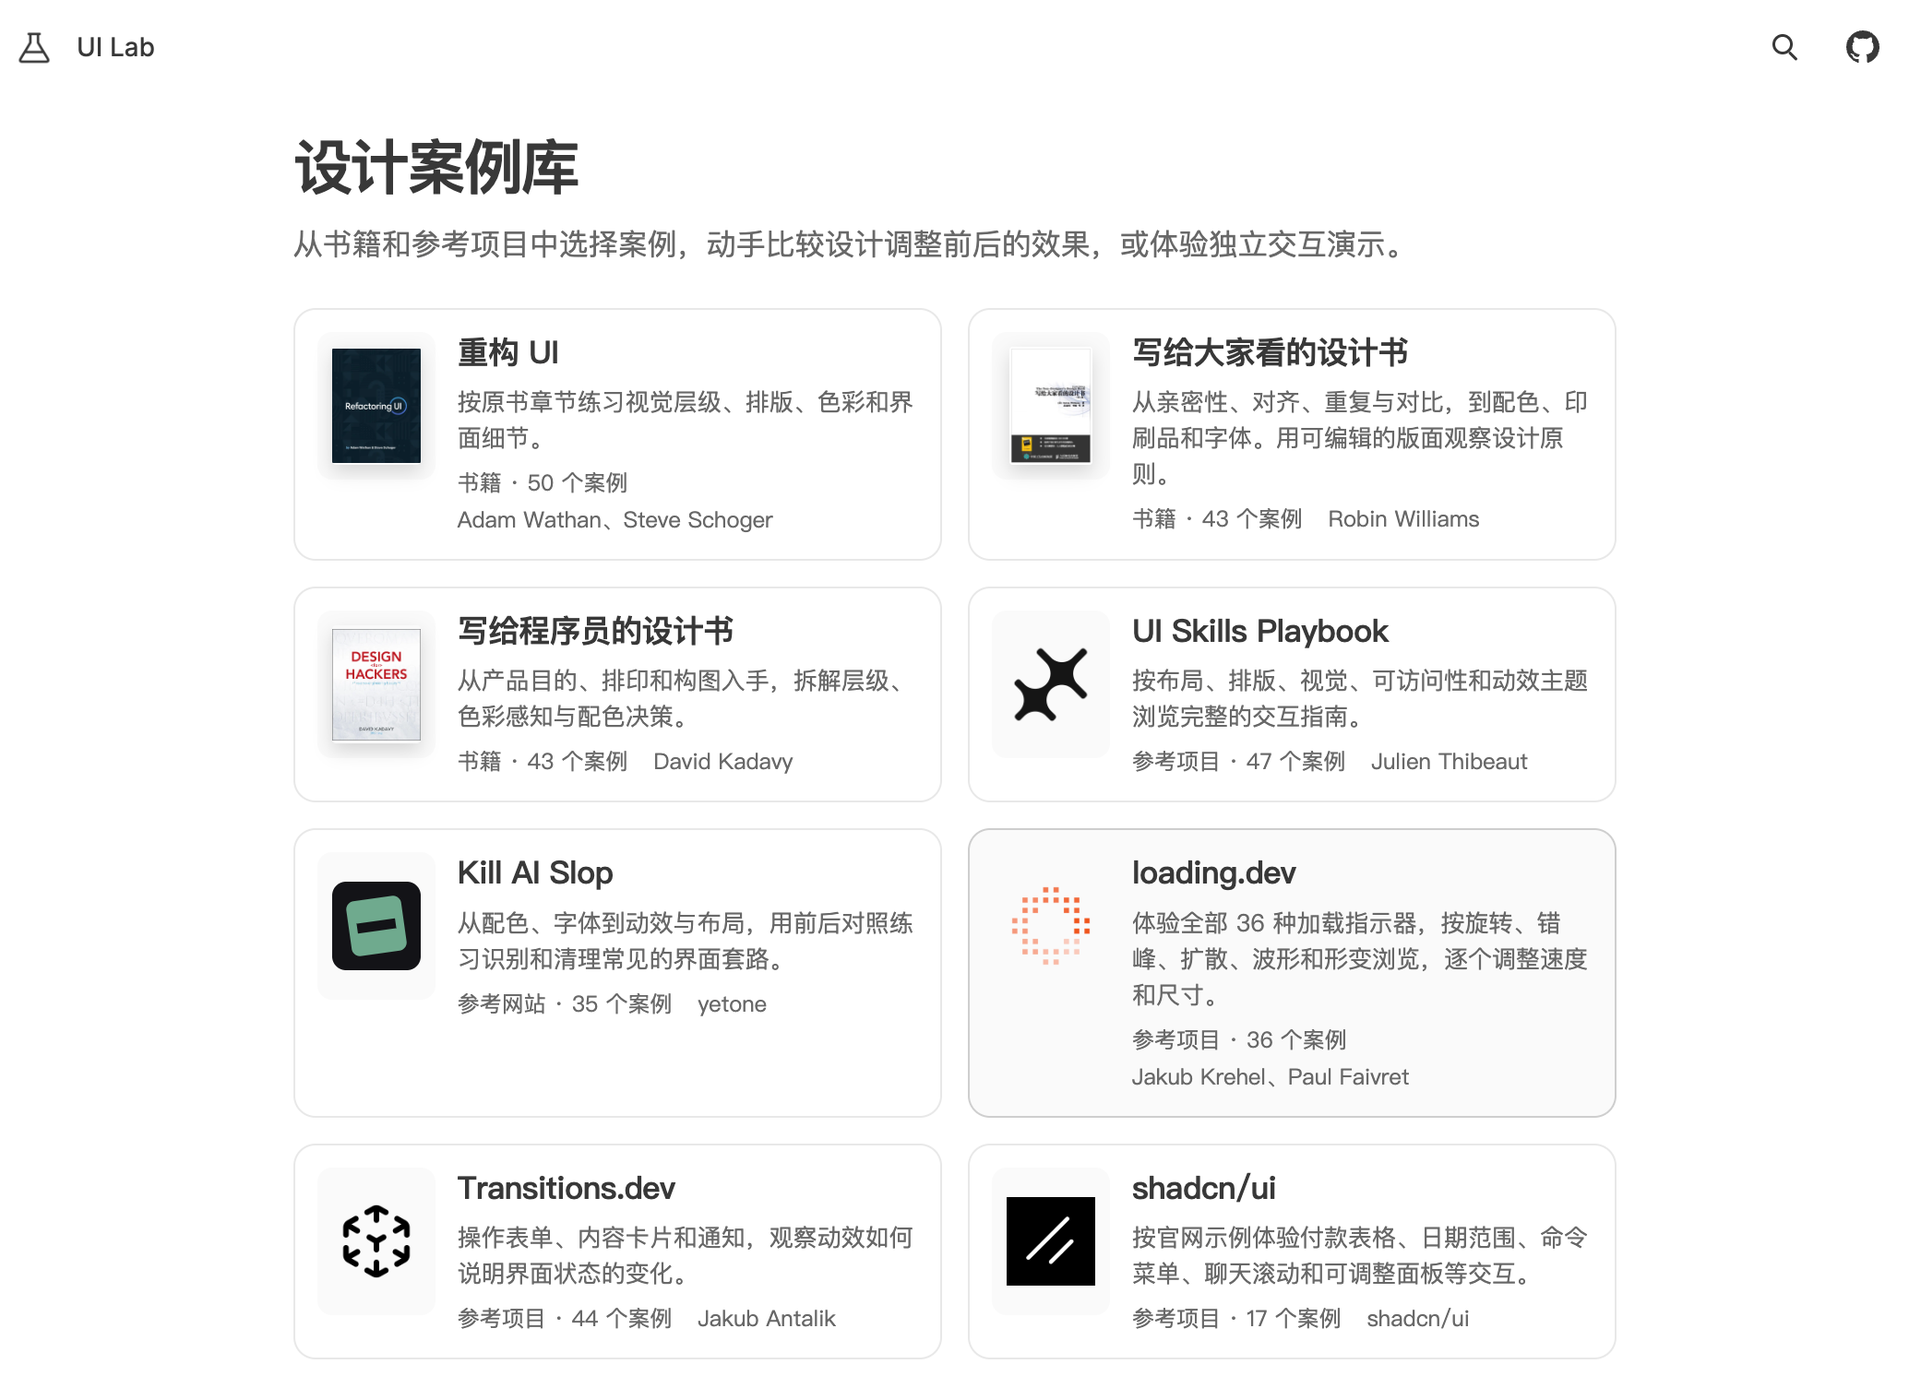
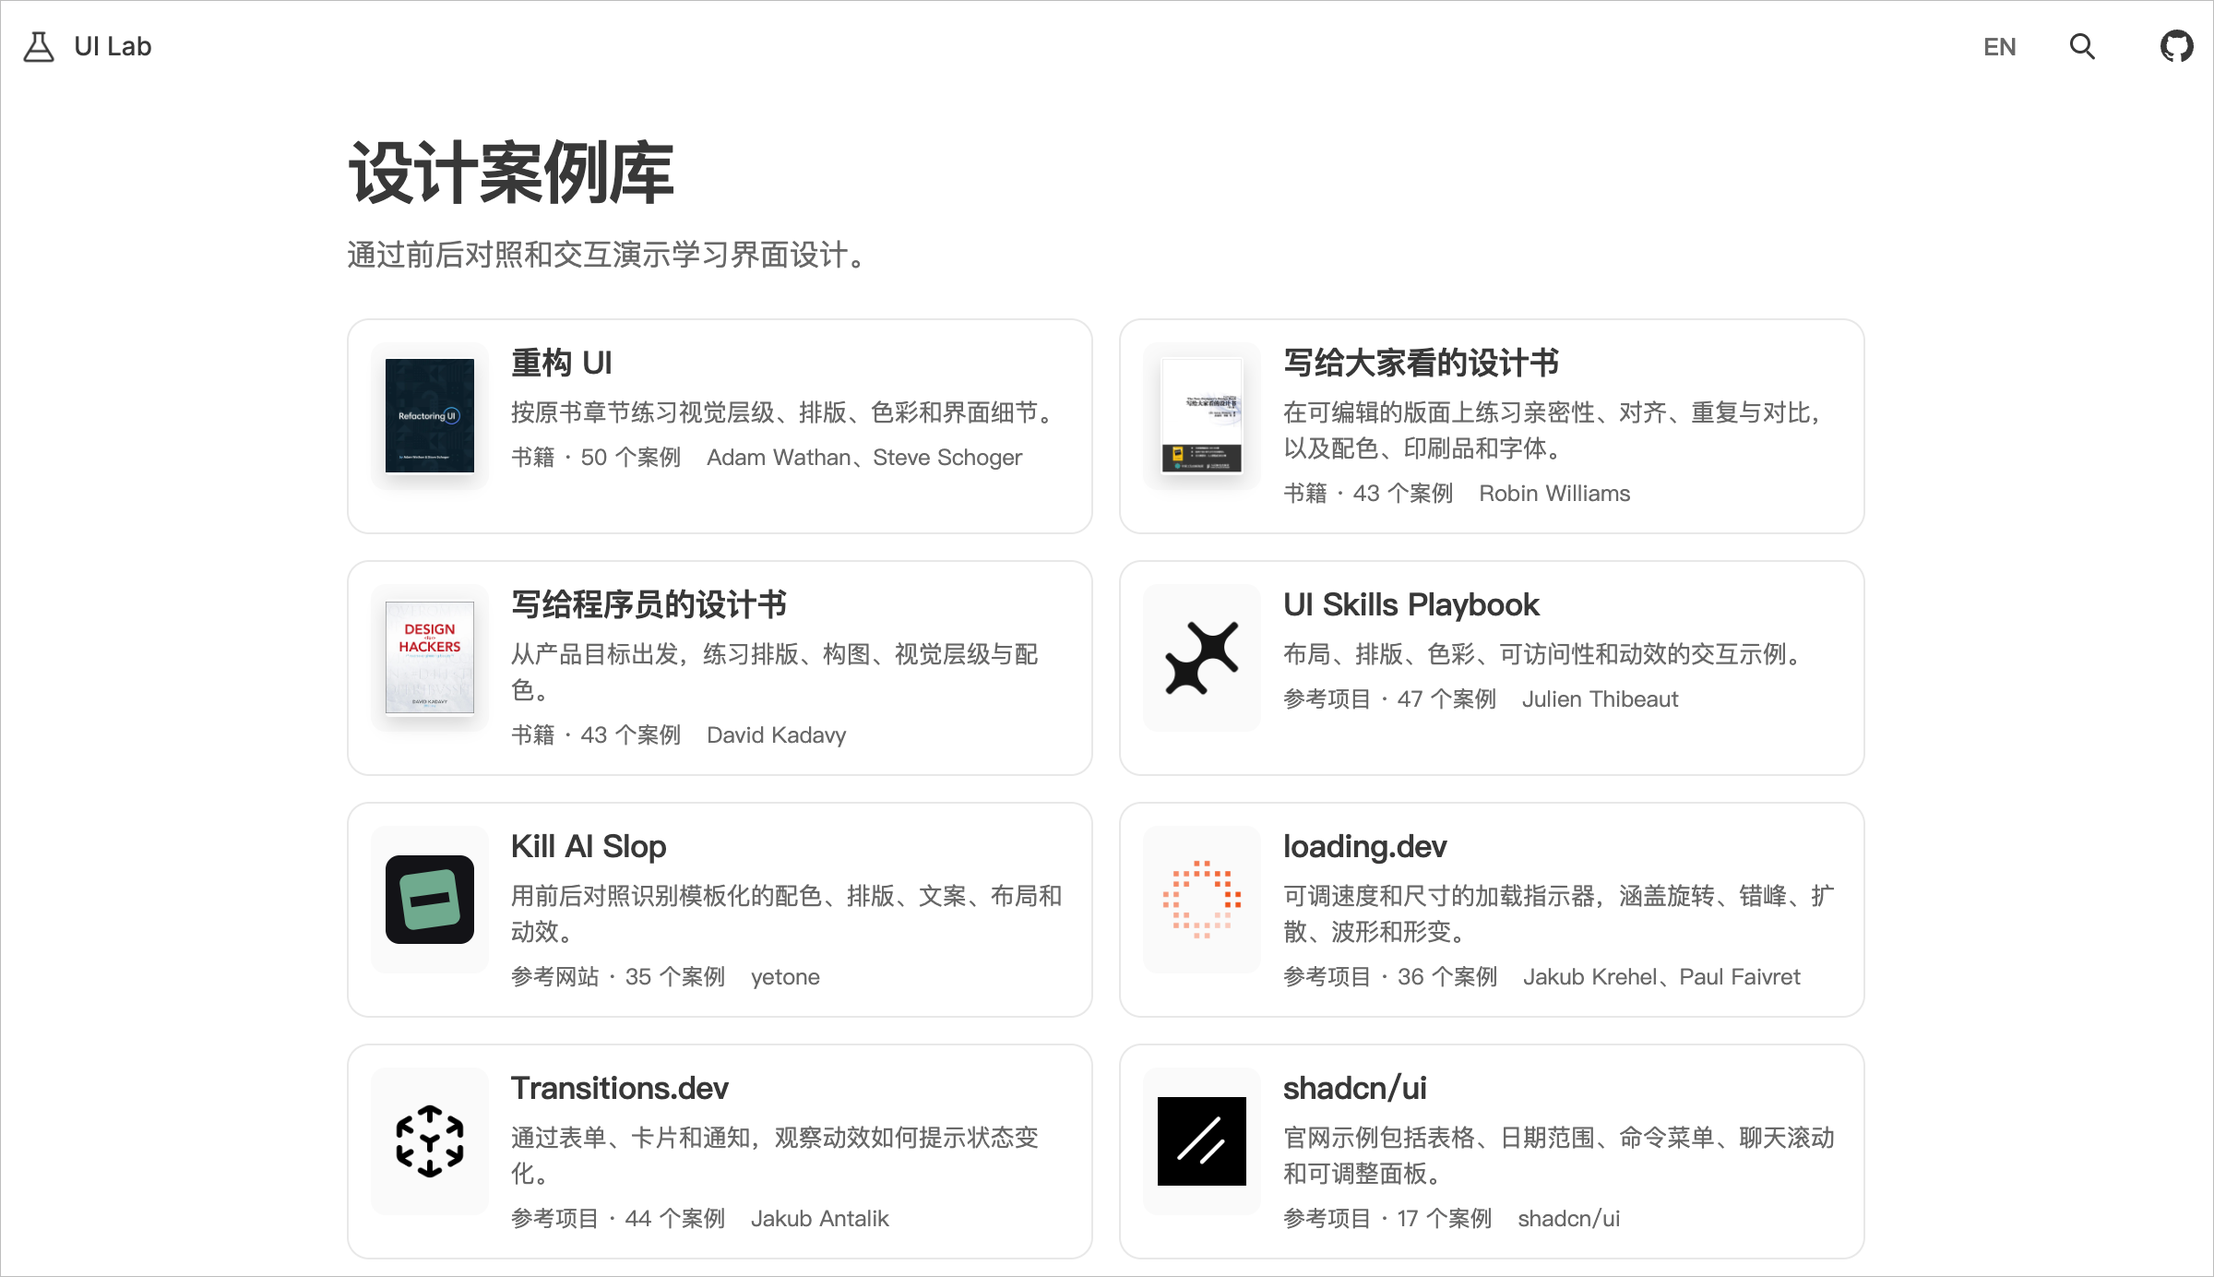
docs: 增加双语项目文档并更新首页截图

diff --git a/docs/maintenance.en.md b/docs/maintenance.en.md
@@ -1,0 +1,84 @@
+# Development, builds, and demo maintenance
+
+[简体中文](./maintenance.md) · English · [Project home](../README.en.md)
+
+## Local development
+
+With Node.js and npm installed, run `npm start` and open <http://127.0.0.1:4322/en>.
+
+Local preview startup and builds generate an [XML sitemap](http://127.0.0.1:4322/sitemap.xml) with case sources, chapters, titles, summaries, and canonical URLs.
+
+## Project layout
+
+- `site/index.html` is the site entry point. `site/app/` contains routing, navigation, rendering, and shared styles.
+- `site/cases/` organizes case data, interactions, and styles by source.
+- `site/assets/` contains images and fonts. `site/demos/` contains bundled demos, and `site/licenses/` contains third-party licenses.
+- `scripts/` contains the site and Playbook build scripts. `vendor-src/` contains the source used to rebuild shadcn/ui and Stageshow demos.
+
+## Build and deployment
+
+Run `npm run build` to generate the home page loading placeholder and XML sitemap and copy the publishable files to `dist/`. Then run `npm run preview` and open <http://127.0.0.1:4323/en> to preview the build.
+
+Cloudflare Pages pulls GitHub's `main` branch, runs `npm run build`, and publishes `dist/`. Match the GitHub commit SHA to the Cloudflare Pages deployment record to confirm the live version. Source and case paths use Cloudflare Pages' default single-page app fallback and are handled by the root `index.html`.
+
+After deployment, open and refresh source pages, case pages, and `/sitemap` directly. Verify that each address displays the corresponding content and that source and case links in `/sitemap.xml` use path-based URLs. A previous deployment may also return HTTP 200 through its single-page app fallback, so check the rendered content and XML links.
+
+## Add a reference source
+
+Read the [UI Lab case curation skill](../skills/ui-lab-case-curation/SKILL.md). Add a source to `collections` in `site/app/library.js` with a unique ID, source link, introduction, and chapters. Case IDs must be unique within the source. Use `criterion` to define a case-specific acceptance criterion for the prompt. Reuse a template from `site/app/scenes.js` or add a renderer when needed.
+
+## Routing and case navigation
+
+On desktop, chapter headings and case entries in the left-hand directory share the same light gray hover background. The current case uses that background with the same text color and weight as a regular entry.
+
+- Source pages use `/source`, case pages use `/source/case`, and the site map uses `/sitemap`. Legacy fragment routes have been retired.
+- Generate internal links with `libraryHref()`. Use `libraryUrl()` for production links in the XML sitemap and case prompts.
+- Collection pages and the site map share a chapter card layout. Each source has its own columns. Cards are added in chapter order to the current shortest column. The layout uses one column when space is limited.
+
+## Update the UI Skills Playbook demos
+
+The repository ships bundled demos and the MIT license. Local preview needs no extra dependencies. The Playbook cases are grouped into five topics and retain the upstream controls and interactions. To update the demos from a neighboring `ui-skills` checkout, install its dependencies and run `node scripts/build-playbook.mjs` in this repository. Before rebuilding, update the categories and prompt acceptance criteria in `site/cases/ui-skills/playbook-cases.js`. The build checks that the categories cover every upstream demo.
+
+## Update the shadcn/ui demos
+
+Rebuild the Attachment demo.
+
+```sh
+npm ci --prefix vendor-src/shadcn-attachment-src
+node vendor-src/shadcn-attachment-src/build.mjs
+```
+
+The Attachment demo uses the official component and example. Its three photos are distributed under the Unsplash License. [Component registry](https://ui.shadcn.com/r/styles/base-rhea/attachment.json) · [Official example](https://github.com/shadcn-ui/ui/blob/main/apps/v4/examples/base/attachment-demo.tsx) · [Unsplash License](https://unsplash.com/license)
+
+Rebuild the remaining 16 demos and their dependency licenses.
+
+```sh
+npm ci --prefix vendor-src/shadcn-official-src --legacy-peer-deps
+node vendor-src/shadcn-official-src/build.mjs
+```
+
+Local preview and site builds use the bundled demos. Toast, Slider, Dropdown Menu, and Sidebar use examples and Base Nova registry components from the pinned upstream revision. [Official examples](https://github.com/shadcn-ui/ui/tree/main/apps/v4/examples/base) · [Interactive bar chart source](https://github.com/shadcn-ui/ui/blob/main/apps/v4/registry/new-york-v4/charts/chart-bar-interactive.tsx) · [Upstream 055aa6b](https://github.com/shadcn-ui/ui/tree/055aa6b7837b1808456a24beb4c97a677864aa82/apps/v4/examples/base) · [Bundled demos](../site/demos/shadcn-official-demo/)
+
+## Update the Stageshow demos
+
+The collection includes 34 official cases and retains the upstream player and scripts. Rebuilding requires Node.js 20.19 or later. [Stageshow 299140f](https://github.com/benjitaylor/skills/tree/299140fafd08df55a9c234e610c3f64af3f45531/stageshow)
+
+```sh
+npm ci --prefix vendor-src/stageshow-src
+npm run typecheck --prefix vendor-src/stageshow-src
+npm run build --prefix vendor-src/stageshow-src
+```
+
+[Asset notices](../vendor-src/stageshow-src/NOTICE.md) · [Stageshow and dependency licenses](../site/licenses/stageshow-LICENSE.txt)
+
+## Site languages
+
+Unprefixed paths use Simplified Chinese. English pages use the `/en` prefix, as in `/en/refactoring-ui/feature`. The header's language link switches the current page between languages. Both versions share source and case IDs. Deep links are handled by the single-page app fallback.
+
+English typography is configured by page language in `site/app/styles.css`. Body text and navigation use self-hosted Inter. Code in prompts uses Roboto Mono. Page titles use Saans Medium when it is installed on the visitor's device and fall back to Inter.
+
+Maintain static site copy in `site/index.html` and `site/app/locale-shell.js`. The English source, chapter, and case names live in `site/app/library-en.js`. English case descriptions, design notes, book references, and acceptance criteria live in `site/app/case-copy-*-en.js`. Maintain demo copy in each module with `t(Chinese, English)`. Embedded Playbook demos use `lang=en` to show the original English copy. When adding or updating a case, provide descriptions, demo copy, and prompts in both languages. The build checks English case navigation, metadata, and prompts for remaining Chinese characters.
+
+## Documentation languages
+
+The default project documentation is in Simplified Chinese. English versions use the `.en.md` suffix. Update both versions together and link to the matching language when adding documentation links. The README images are stored in `docs/images/`.

diff --git a/docs/sources.en.md b/docs/sources.en.md
@@ -1,0 +1,34 @@
+# Case sources and asset licenses
+
+[简体中文](./sources.md) · English · [Project home](../README.en.md)
+
+## Case sources
+
+| Source | Cases | Content |
+| --- | ---: | --- |
+| Refactoring UI | 50 | Before-and-after interface design examples |
+| The Non-Designer's Design Book | 43 | Typography and visual design examples and exercises |
+| Design for Hackers | 43 | Design principles and examples |
+| UI Skills Playbook | 47 | Interactive motion examples grouped by topic |
+| Kill AI Slop | 35 | Before-and-after interface improvements |
+| loading.dev | 36 | Loading indicators with adjustable size and speed, plus pause and replay controls |
+| Transitions.dev | 44 | Motion for form feedback, content states, changing numbers, navigation, pointers, and loading |
+| shadcn/ui | 17 | Component examples including date ranges, searchable multi-select, tables, charts, and attachments |
+| Motion Primitives | 33 | Interactive motion examples |
+| Break UI | 11 | Member profiles, lists, dates, progress, long filenames, collapsed tags, and request retries |
+| Details that make interfaces feel better | 8 | Text wrapping, button padding, nested corners, icon swaps, entrances, interrupted animations, drawer exits, and background contrast |
+| Stageshow | 34 | Product storytelling, linked data, collaboration, state feedback, and gestures |
+
+The loading.dev demos use static markup and styles generated by loading-dev 0.3.8. The Transitions.dev Number pop-in and Spinning counter cases use the logic and styles of the corresponding public demos. The remaining Transitions.dev cases use plain HTML, CSS, and JavaScript and follow public references. The shadcn/ui cases use official components and example source code, with the preview scripts, styles, and fonts shipped with the site. The Break UI cases were implemented independently using the official demo and upstream edge-case data as references, and use the AI for UI site icon to identify the source. The Details that make interfaces feel better cases were implemented independently using Jakub Krehel's article as a reference and use his website icon to identify the source. Each case page links to its original reference.
+
+## Sources and assets
+
+Original UI Lab code is available under the [MIT License](../LICENSE). Third-party code and assets are governed by their respective licenses and rights notices.
+
+The [disclaimer](../DISCLAIMER.en.md) covers the project's purpose, third-party rights, and feedback. The following sources have their own code licenses. [loading.dev](../site/licenses/loading-dev-LICENSE.md) · [Transitions.dev](../site/licenses/transitions-dev-LICENSE.md) · [shadcn/ui](../site/licenses/shadcn-ui-LICENSE.md) · [Stageshow](../site/licenses/stageshow-LICENSE.txt)
+
+Book cases use independently drawn interface examples and curated exercises. Book covers and project logos identify their sources and belong to their respective rights holders. The English collection for *The Non-Designer's Design Book* uses [Peachpit's fourth-edition cover](https://www.peachpit.com/store/non-designers-design-book-4th-edition-9780133966152). The valley photos and abstract illustrations used in demos were AI-generated.
+
+The UI Skills Playbook demos come from ibelick/ui-skills. The upstream MIT license and bundled dependency licenses are included with the demos. [Upstream repository](https://github.com/ibelick/ui-skills) · [Bundled demos](../site/demos/playbook-demo/)
+
+Inter and Roboto Mono are distributed under the SIL Open Font License 1.1. [Inter license](../site/assets/fonts/Inter-OFL.txt) · [Roboto Mono license](../site/assets/fonts/RobotoMono-OFL.txt)

diff --git a/README.en.md b/README.en.md
@@ -1,0 +1,52 @@
+<div align="center">
+  <h1><sup><img src="./site/assets/brand-mark.png" alt="" width="32" height="32" align="middle"></sup>&nbsp; UI&nbsp;Lab</h1>
+  <p><strong>A hands-on library of UI design cases.</strong></p>
+  <p>401 cases · 12 sources · v1.2.0</p>
+  <p>
+    <a href="./README.md" lang="zh-CN">简体中文</a> · English
+  </p>
+  <p>
+    <a href="https://ui-lab.wangruofeng007.com/en">Explore the library</a> ·
+    <a href="https://ui-lab.wangruofeng007.com/sitemap.xml">XML sitemap</a>
+  </p>
+  <a href="https://ui-lab.wangruofeng007.com/en">
+    <img src="./docs/images/ui-lab-home-en.webp" alt="UI Lab English homepage showing case collections from books and reference projects" width="1000">
+  </a>
+</div>
+
+## Features
+
+- **Compare before and after.** See how a redesign makes the same content easier to read in examples such as the poster redesign.
+- **Try interactive demos.** Retry an action in place after it fails, or compare glows on status indicators.
+- **Apply cases to your own interface.** Search across sources and copy Markdown prompts with reference links and acceptance criteria from case pages.
+
+## Quick start
+
+Open the [online case library](https://ui-lab.wangruofeng007.com/en), or run it locally with Node.js and npm.
+
+```sh
+git clone https://github.com/wangruofeng/ui-lab.git
+cd ui-lab
+npm start
+```
+
+Open [127.0.0.1:4322/en](http://127.0.0.1:4322/en). The local preview runs without installing npm dependencies. Once it starts, you can open the [sitemap](http://127.0.0.1:4322/en/sitemap) or the [poster redesign case](http://127.0.0.1:4322/en/non-designers-design-book/easy-design).
+
+### Install the skill for an agent
+
+Run the following command in the target project and select the agent to install it for. The Skills CLI requires Node.js 22.20 or later. [Installation documentation](https://github.com/vercel-labs/skills#install-a-skill)
+
+```sh
+npx skills add wangruofeng/ui-lab --skill ui-lab-ui-improvement
+```
+
+The command installs the skill in the current project by default. Add `-g` to use it across projects, or copy the entire [UI improvement skill](./skills/ui-lab-ui-improvement/) directory to your agent's skills directory.
+
+> Use `ui-lab-ui-improvement` to find a case for improving upload failure feedback.
+
+## More documentation
+
+- [Case sources and asset licenses](./docs/sources.en.md)
+- [Development, builds, and demo maintenance](./docs/maintenance.en.md)
+
+Original code is available under the [MIT License](./LICENSE). See the [disclaimer](./DISCLAIMER.en.md) for third-party materials and how to submit feedback.

diff --git a/docs/maintenance.md b/docs/maintenance.md
@@ -1,6 +1,6 @@
 # 开发、构建与演示维护
 
-[返回项目首页](../README.md)
+简体中文 · [English](./maintenance.en.md) · [返回项目首页](../README.md)
 
 ## 本地开发
 
@@ -78,3 +78,7 @@ npm run build --prefix vendor-src/stageshow-src
 英文界面的字体在 `site/app/styles.css` 中按页面语言配置。正文和导航使用本地托管的 Inter，提示词中的代码使用 Roboto Mono。主标题优先使用访客设备上已安装的 Saans Medium，缺少该字体时使用 Inter。
 
 站点静态文案在 `site/index.html` 和 `site/app/locale-shell.js` 中维护。来源、章节和案例的英文名称在 `site/app/library-en.js` 中维护。案例英文说明、设计要点、书中出处和验收条件在 `site/app/case-copy-*-en.js` 中维护。演示文案用 `t(中文, 英文)` 在各自模块里维护。Playbook 内嵌演示通过 `lang=en` 使用原版英文文案。新增或改动案例时补齐两种语言的说明、演示和提示词。构建会检查英文目录、案例元数据和提示词是否仍混有汉字。
+
+## 文档语言
+
+项目文档默认使用简体中文，英文版使用 `.en.md` 后缀。修改文档时同步更新两种语言，新加的文档链接指向对应语言版本。README 截图存放在 `docs/images/`。

diff --git a/DISCLAIMER.en.md b/DISCLAIMER.en.md
@@ -1,0 +1,11 @@
+# Disclaimer
+
+[简体中文](./DISCLAIMER.md) · English
+
+UI Lab is an independently maintained design case library for learning, research, and interactive demonstrations. Book, project, company, and product names and logos identify the sources used in the cases. UI Lab has no affiliation, partnership, or endorsement relationship with the respective rights holders.
+
+Third-party source code, fonts, images, book covers, and trademarks belong to their respective rights holders. Follow the original licenses and notices when using or redistributing these materials. Case pages link to their original sources. Licenses included in the repository are listed under [Sources and assets](./docs/sources.en.md#sources-and-assets).
+
+The site content and demos are provided as is. Case descriptions may change as upstream sources are updated. Results in real projects depend on the environment and implementation.
+
+To report incorrect attribution or request a correction or removal, open a [GitHub issue](https://github.com/wangruofeng/ui-lab/issues) with the relevant case link and details.

diff --git a/DISCLAIMER.md b/DISCLAIMER.md
@@ -1,8 +1,10 @@
 # 免责声明
 
+简体中文 · [English](./DISCLAIMER.en.md)
+
 UI Lab 是独立维护的设计案例库，供学习、研究与交互演示使用。案例中的书籍、项目、公司及产品名称和标识用于注明来源。UI Lab 与相关权利人无隶属、合作或背书关系。
 
-第三方源码、字体、图片、书籍封面及商标的权利归各自权利人。使用或再分发相关材料时，请遵循其原始许可和权利声明。案例页提供原始出处，仓库收录的许可见 [来源与素材](./README.md#来源与素材)。
+第三方源码、字体、图片、书籍封面及商标的权利归各自权利人。使用或再分发相关材料时，请遵循其原始许可和权利声明。案例页提供原始出处，仓库收录的许可见 [来源与素材](./docs/sources.md#来源与素材)。
 
 站点内容与演示按现状提供。案例说明可能随上游更新而变化，实际项目中的使用效果取决于具体环境和实现。
 

diff --git a/README.md b/README.md
@@ -3,6 +3,9 @@
   <p><strong>一个可以动手体验的 UI 设计案例库。</strong></p>
   <p>401 个案例 · 12 个来源 · v1.2.0</p>
   <p>
+    简体中文 · <a href="./README.en.md" lang="en">English</a>
+  </p>
+  <p>
     <a href="https://ui-lab.wangruofeng007.com/">在线体验</a> ·
     <a href="https://ui-lab.wangruofeng007.com/sitemap.xml">XML 索引</a>
   </p>

diff --git a/docs/sources.md b/docs/sources.md
@@ -1,6 +1,6 @@
 # 案例来源与素材许可
 
-[返回项目首页](../README.md)
+简体中文 · [English](./sources.en.md) · [返回项目首页](../README.md)
 
 ## 案例来源
 
